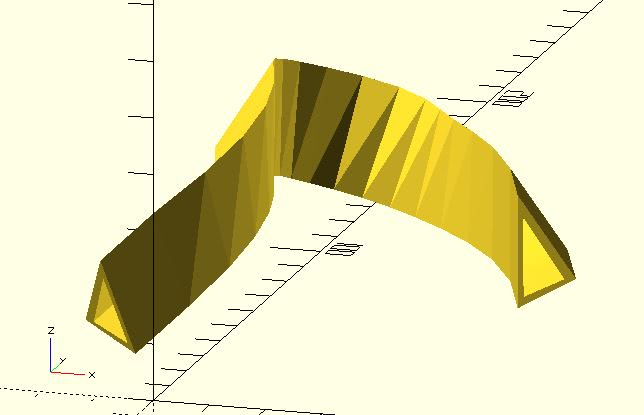
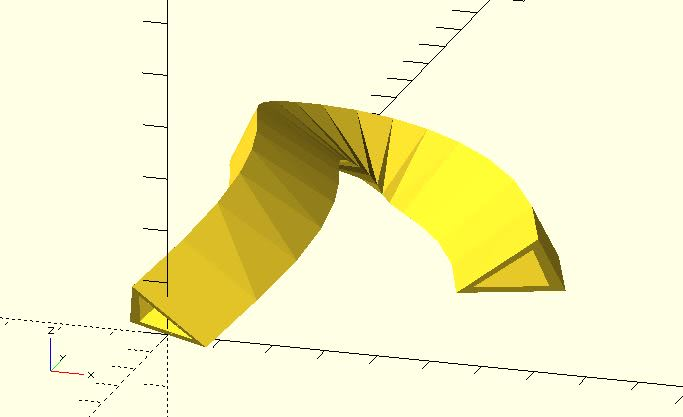
updated docs

diff --git a/docs/lib-path_extrude.md b/docs/lib-path_extrude.md
@@ -62,15 +62,15 @@ When using this module, you should use points to represent the 2D shape. If your
 
 	shape_pts = [
 		// outer
-		[20, 0],
-		[18, 9],
-		[15, 10],    
-		[10, 0],
+		[5, 0],
+		[3, 9],
+		[0, 10],    
+		[-5, 0],
 		// inner
-		[18, 2],
-		[17, 7],
-		[15, 7],
-		[12, 2]
+		[3, 2],
+		[2, 7],
+		[0, 7],
+		[-3, 2]
 	];
 
 	path_pts = bezier_curve(t_step, 
@@ -97,13 +97,13 @@ When using this module, you should use points to represent the 2D shape. If your
 	
 	shape_pts = [
 	    // outer
-        [30, 0],
-        [15, 10],
-	    [10, 0],
+        [10, 0],
+        [-5, 10],
+	    [-10, 0],
 	    // inner
-        [26, 1],
-        [15, 8],
-	    [12, 1]
+        [7, 1],
+        [-4, 8],
+	    [-7, 1]
 	];
 	
 	path_pts = bezier_curve(t_step, 

diff --git a/docs/lib-shape_arc.md b/docs/lib-shape_arc.md
@@ -27,7 +27,7 @@ Returns shape points of an arc shape. They can be used with xxx_extrude modules 
     t_step = 0.05;
     width = 2;
 
-    shape_pts = shape_arc(radius = 10, angles = [90, 270], width = 5);
+    shape_pts = shape_arc(radius = 10, angles = [180, 360], width = 5);
 
     p0 = [0, 0, 0];
     p1 = [40, 60, 35];
